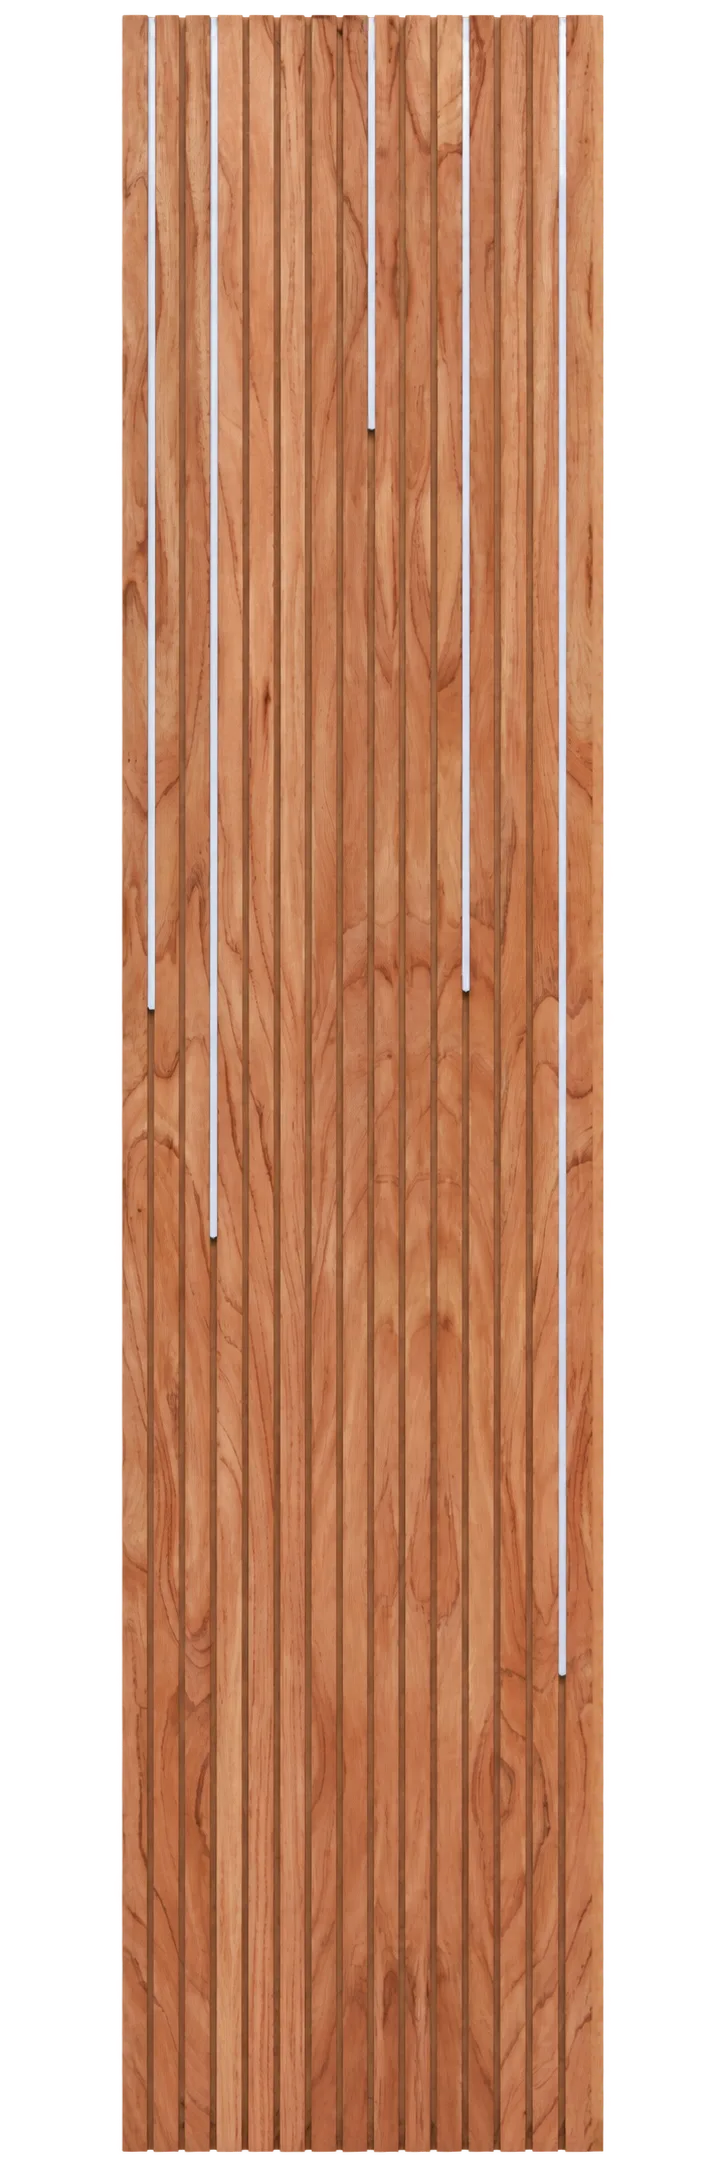
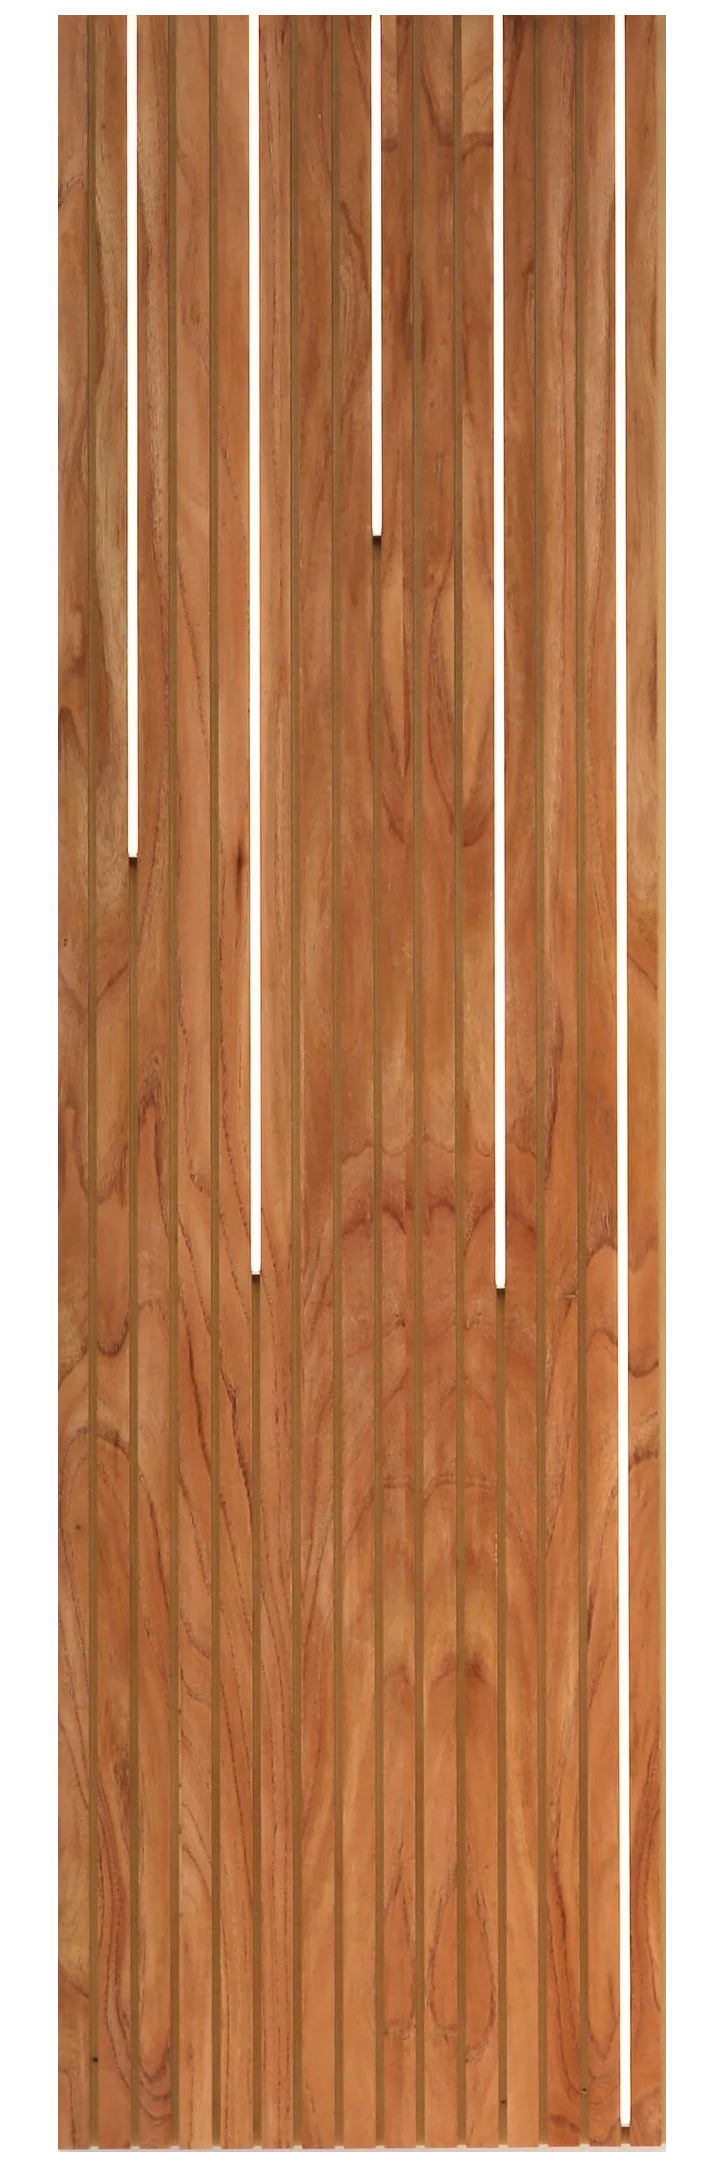
feat(catalog): add LED photos for Itaúba and Paraíso and off photo for Guayubira

diff --git a/lib/productos.ts b/lib/productos.ts
@@ -31,9 +31,9 @@ export const products: Product[] = [
   { slug: "pino-impregnado-cca", name: "Pino", detail: "Impregnado CCA", tag: "CCA", category: "macizas", images: { solo: "pino-impregnado-cca.webp" } },
   { slug: "freijo", name: "Freijó", detail: "Veta natural", tag: "Madera", category: "enchapados", images: { solo: "freijo.webp" } },
   { slug: "guatambu", name: "Guatambú", detail: "Madera natural", tag: "Madera", category: "enchapados", images: { solo: "guatambu.webp", led: "guatambu-cobertor-led.webp" } },
-  { slug: "guayubira", name: "Guayubira", detail: "Madera natural", tag: "Madera", category: "enchapados", images: { led: "guayubira-led.webp" } },
-  { slug: "paraiso", name: "Paraíso", detail: "Madera natural", tag: "Madera", category: "enchapados", images: { led: "paraiso-led.webp" } },
-  { slug: "itauba", name: "Itaúba", detail: "Madera natural", tag: "Madera", category: "enchapados", images: { solo: "itauba.webp" } },
+  { slug: "guayubira", name: "Guayubira", detail: "Madera natural", tag: "Madera", category: "enchapados", images: { solo: "guayubira.webp", led: "guayubira-led.webp" } },
+  { slug: "paraiso", name: "Paraíso", detail: "Madera natural", tag: "Madera", category: "enchapados", images: { solo: "paraiso.webp", led: "paraiso-led.webp" } },
+  { slug: "itauba", name: "Itaúba", detail: "Madera natural", tag: "Madera", category: "enchapados", images: { solo: "itauba.webp", led: "itauba-led.webp" } },
   { slug: "roble-americano", name: "Roble americano", detail: "Madera natural", tag: "Madera", category: "enchapados", images: { solo: "roble-americano.webp", led: "roble-americano-led.webp" } },
   { slug: "pino-base-negra", name: "Pino", detail: "Base negra", tag: "Base negra", category: "macizas", images: { solo: "pino-base-negra.webp", led: "pino-base-negra-led.webp" } },
   { slug: "pino-finger", name: "Pino", detail: "Finger", tag: "Finger", category: "macizas", images: { solo: "pino-finger.webp" } },
